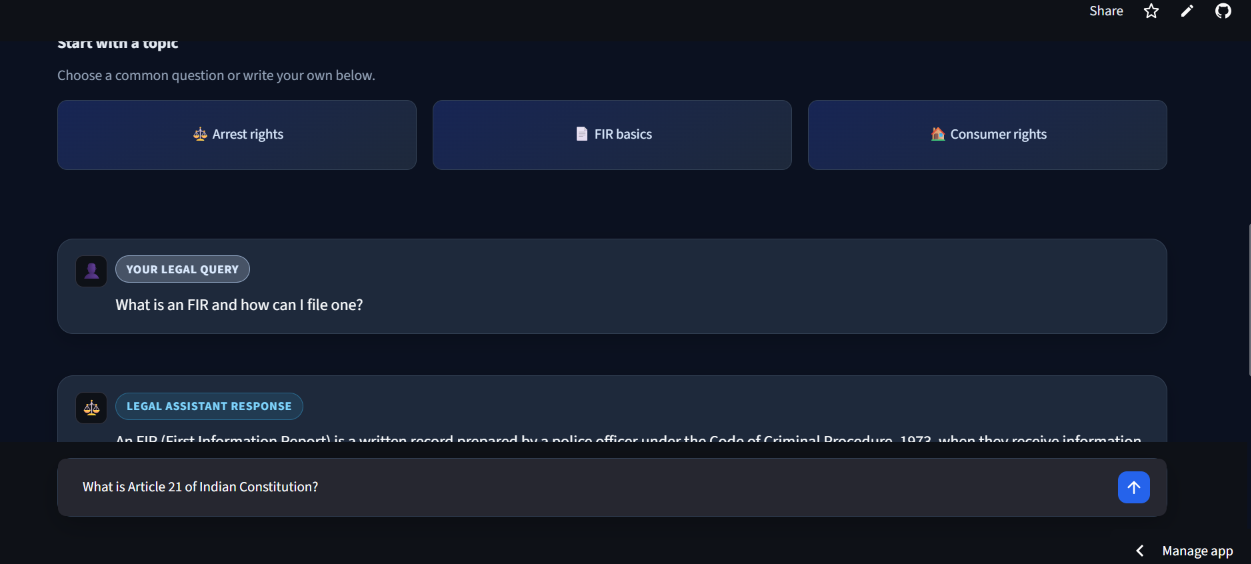
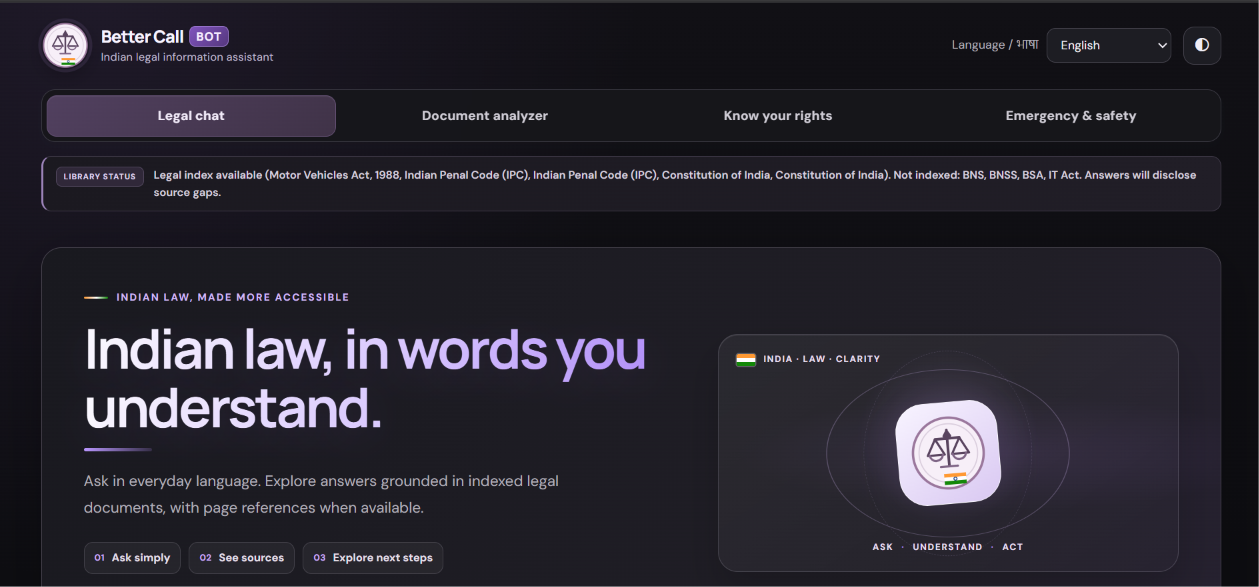
Update Better Call Bot portfolio project

diff --git a/frontend/src/sections/ProjectsSection.jsx b/frontend/src/sections/ProjectsSection.jsx
@@ -5,11 +5,11 @@ import { SectionHeading } from '../components/SectionHeading'
 const projects = [
   {
     name: 'Better Call Bot',
-    type: 'AI Legal Assistant',
-    summary: 'An AI-powered legal assistant built with Python and Streamlit that supports conversational interaction with legal documents through document processing and semantic information retrieval.',
+    type: 'AI-Powered Indian Legal Assistant',
+    summary: 'Better Call Bot is an AI-powered legal assistant that helps users understand Indian legal information in simple language. It answers legal questions, provides practical guidance, and summarizes uploaded PDFs using Python, FastAPI, Groq, LangChain, and FAISS.',
     image: '/better-call-bot.png',
-    tags: ['Python', 'Streamlit', 'AI', 'Vector Search'],
-    liveLink: 'https://better-call-bot-z2xxog3cq2xq3pem7hskup.streamlit.app/',
+    tags: ['Python', 'FastAPI', 'Groq', 'LangChain', 'FAISS'],
+    liveLink: 'https://better-call-bot.vercel.app/',
   },
   {
     
